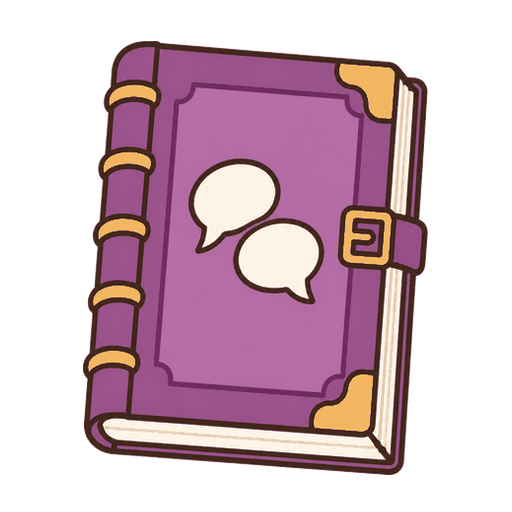
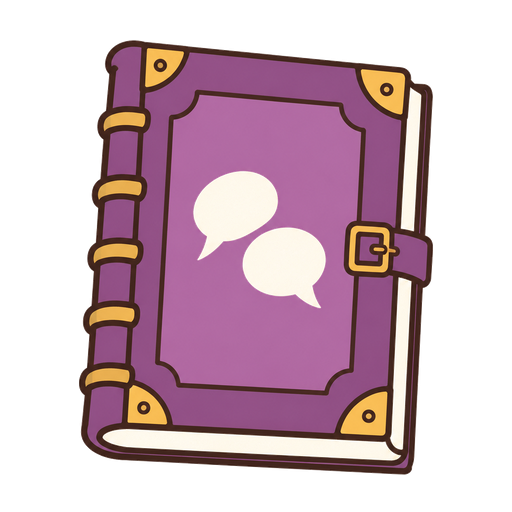
feat(practice): 练习页书架三行、设置卡片与单行题目列表
书架分三行摆（记忆三本 / 练习三本 / 对话·作文·设置），靠左站。
设置不再是圆角矩形也不是书，改用新画的卡片素材，日夜各一张；
对话书按其它书的三分之四侧角重画，夜间对话符号发光。
右侧题目列表加宽到 420–470px，一行放下题型、名字、题量、状态与箭头，
并去掉重复的「题目集」页签与「来一组随机混合的题」入口。

Changed region(s): [[0.1562, 0.0625, 0.8438, 0.9375]]

diff --git a/frontend/src/practice.css b/frontend/src/practice.css
@@ -687,7 +687,7 @@
 /* 书架在左、题目列表在右。书分三行：记忆三本、练习三本、对话与作文与设置三本。 */
 .personal-workspace .practice-hub-layout.practice-hub-layout--split {
   display: grid;
-  grid-template-columns: minmax(0, 1fr) minmax(288px, 360px);
+  grid-template-columns: minmax(0, 1fr) minmax(420px, 470px);
   grid-template-areas: 'shelf tasks';
   gap: 22px;
   align-items: start;
@@ -725,78 +725,28 @@
   padding-inline: 1rem;
 }
 
-/* 设置不是一本书，是书架最右端的一张卡片：一个齿轮、一行名字、一行说明。 */
-.shelf .module-card.practice-shelf-card {
-  display: grid;
-  justify-items: center;
-  align-content: center;
-  gap: 8px;
-  width: min(100%, 156px);
-  justify-self: center;
-  min-height: 176px;
-  margin-bottom: 6px;
-  padding: 16px 12px;
-  border: 2px solid var(--ui-line);
-  border-radius: 16px;
-  background: var(--ui-surface);
-  box-shadow: 0 4px 0 var(--ui-line);
-  color: inherit;
-  text-align: center;
-  cursor: pointer;
-  transition: transform 220ms cubic-bezier(0.2, 0.9, 0.25, 1.05);
-}
+/* 设置不是书，但和书站在同一块木板上：卡片本身就是一张画好的素材，
+ * 尺寸、投影和悬停手感都跟着书走，所以这里不留额外的描边和底色。 */
 
-.shelf .module-card.practice-shelf-card:hover,
-.shelf .module-card.practice-shelf-card:focus-visible {
-  transform: translateY(-4px);
-}
-
-.practice-shelf-card__plate {
-  display: grid;
-  place-items: center;
-  width: 68px;
-  height: 68px;
-  border-radius: 20px;
-  background: var(--ui-surface-subtle);
-  box-shadow: inset 0 -3px 0 var(--ui-line);
-  color: var(--ui-ink);
-}
-
-.practice-shelf-card__plate .crumb-icon,
-.practice-shelf-card__plate svg {
-  width: 34px;
-  height: 34px;
-}
-
-/* 边栏里的题目行：一栏只有三百来像素，按三行摆——题型与状态一行、名字一行、
- * 题量与箭头一行，不再硬挤成一排。 */
+/* 边栏够宽了，一条题目就排成一行：题型、名字、题量、状态、箭头。 */
 .personal-workspace .practice-hub-tasks .practice-task-row {
   display: grid;
-  grid-template-columns: minmax(0, 1fr) auto;
-  grid-template-areas:
-    'type status'
-    'name name'
-    'count arrow';
-  gap: 3px 8px;
+  grid-template-columns: auto minmax(0, 1fr) auto auto auto;
+  gap: 10px;
   align-items: center;
   flex-wrap: nowrap;
-  padding: 10px 2px;
+  padding: 11px 2px;
 }
-
-.personal-workspace .practice-hub-tasks .practice-task-type { grid-area: type; }
-.personal-workspace .practice-hub-tasks .practice-task-status { grid-area: status; justify-self: end; }
 
 .personal-workspace .practice-hub-tasks .practice-task-row > strong {
-  grid-area: name;
-  white-space: normal;
-  overflow: visible;
-  text-overflow: clip;
+  min-width: 0;
+  overflow: hidden;
+  text-overflow: ellipsis;
+  white-space: nowrap;
+  font-size: 0.86rem;
 }
 
-.personal-workspace .practice-hub-tasks .practice-task-count { grid-area: count; }
-
 .personal-workspace .practice-hub-tasks .practice-task-row > svg {
-  grid-area: arrow;
   margin-left: 0;
   justify-self: end;
 }

diff --git a/frontend/src/views/PracticeHubView.vue b/frontend/src/views/PracticeHubView.vue
@@ -27,7 +27,7 @@ import DrillConfigDialog from '../components/DrillConfigDialog.vue'
 
 import '../practice.css'
 import ShelfPicker from '../components/ShelfPicker.vue'
-import { illustration } from '../assets/halloween'
+import { illustration, settingsCard } from '../assets/halloween'
 
 const router = useRouter()
 const route = useRoute()
@@ -80,7 +80,7 @@ const exerciseRow: PracticeType[] = ['fill_blank', 'reading', 'translation']
 const pairRow: PracticeType[] = ['conversation', 'writing']
 /** 设置不是一种练习，它打开的是练习的题型配置。 */
 const settingsBooks = [
-  { key: 'settings', label: '设置', hint: '配置练习的题型', icon: 'settings' },
+  { key: 'settings', label: '设置', hint: '配置练习的题型', art: settingsCard },
 ]
 function queryType(value: unknown): PracticeType | null {
   return typeof value === 'string' && practiceTypeOptions.includes(value as PracticeType)
@@ -286,13 +286,6 @@ onMounted(() => {
             @pick="openConfig"
             @pick-extra="drillConfigOpen = true"
           />
-
-          <!-- No book of its own: a mixed set is the same books drawn at random. -->
-          <p class="practice-shelf__mixed">
-            <DivButton class="practice-shelf__mixed-link" type="button" @click="openConfig('mixed')">
-              来一组随机混合的题
-            </DivButton>
-          </p>
         </div>
 
         <PracticeTaskList class="practice-hub-tasks" :limit="8" show-tabs />

diff --git a/frontend/src/components/PracticeShelf.vue b/frontend/src/components/PracticeShelf.vue
@@ -9,8 +9,8 @@
  */
 import { computed } from 'vue'
 import { practiceBooks } from '../assets/halloween'
+import type { ThemeMode } from '../assets/halloween'
 import ArtImage from './ArtImage.vue'
-import AppIcon from './AppIcon.vue'
 import type { PracticeType } from '../api/practice'
 
 /** 设置不是一本书：它是书架最右端的一张卡片，打开的是配置而不是练习。 */
@@ -18,7 +18,7 @@ export interface ShelfExtraBook {
   key: string
   label: string
   hint: string
-  icon: string
+  art: ThemeMode
 }
 
 const props = defineProps<{
@@ -70,14 +70,12 @@ const books = computed(() =>
     <button
       v-for="entry in props.extra ?? []"
       :key="entry.key"
-      class="module-card practice-shelf-card"
-      :class="`practice-shelf-card--${entry.key}`"
+      class="module-card shelf-book"
+      :class="`shelf-book--${entry.key}`"
       type="button"
       @click="emit('pick-extra', entry.key)"
     >
-      <span class="practice-shelf-card__plate" aria-hidden="true">
-        <AppIcon :name="entry.icon" />
-      </span>
+      <ArtImage class="shelf-book__art" :set="entry.art" />
 
       <span class="shelf-book__title">{{ entry.label }}</span>
       <span class="shelf-book__hint">{{ entry.hint }}</span>

diff --git a/frontend/src/components/PracticeTaskList.vue b/frontend/src/components/PracticeTaskList.vue
@@ -9,7 +9,6 @@
 import { computed, onMounted, ref } from 'vue'
 import { RouterLink, useRouter } from 'vue-router'
 import AppIcon from './AppIcon.vue'
-import TypeMark from './TypeMark.vue'
 import ErrorNotice from './ErrorNotice.vue'
 import LoadingState from './LoadingState.vue'
 import {
@@ -232,7 +231,6 @@ onMounted(() => {
           to="/practice/tasks"
           aria-current="page"
         >题目列表</RouterLink>
-        <RouterLink class="practice-task-tab" to="/practice/records">题目集</RouterLink>
         <RouterLink class="practice-task-tab" to="/practice/mistakes">错题本</RouterLink>
       </div>
     </header>
@@ -249,7 +247,6 @@ onMounted(() => {
         :aria-label="`${PRACTICE_TYPE_LABELS[row.practiceType]}，${taskName(row)}，${statusLabel(row)}，${row.count} 题`"
         @click="openDialog(row)"
       >
-        <TypeMark class="practice-task-mark" :type="row.practiceType" :size="20" />
         <span class="practice-task-type">{{ PRACTICE_TYPE_LABELS[row.practiceType] }}</span>
         <strong>{{ taskName(row) }}</strong>
         <span class="practice-task-count">

diff --git a/frontend/src/assets/halloween/index.ts b/frontend/src/assets/halloween/index.ts
@@ -28,6 +28,8 @@ import writingDay from './book/book-writing-day.png'
 import writingNight from './book/book-writing-night.png'
 import conversationDay from './book/book-conversation-day.png'
 import conversationNight from './book/book-conversation-night.png'
+import settingsCardDay from './card/settings-card-day.png'
+import settingsCardNight from './card/settings-card-night.png'
 
 /** Keyed by the product's own type names; `cloze` is the file name for fill-blank. */
 export const practiceBooks: PracticeArt = {
@@ -40,6 +42,9 @@ export const practiceBooks: PracticeArt = {
   writing: { day: writingDay, night: writingNight },
   conversation: { day: conversationDay, night: conversationNight },
 }
+
+/** 设置不是一本书：它是一张立起来的卡片，和书站在同一块木板上。 */
+export const settingsCard: ThemeMode = { day: settingsCardDay, night: settingsCardNight }
 
 import slabBiscuit from './card/slab-biscuit.png'
 import slabStele from './card/slab-stele.png'
